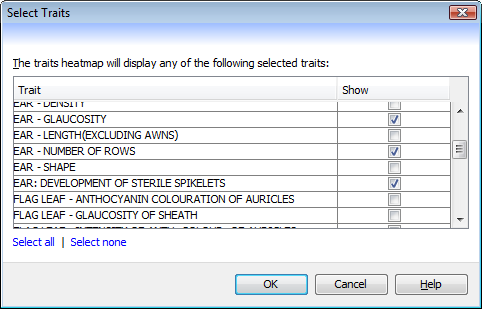
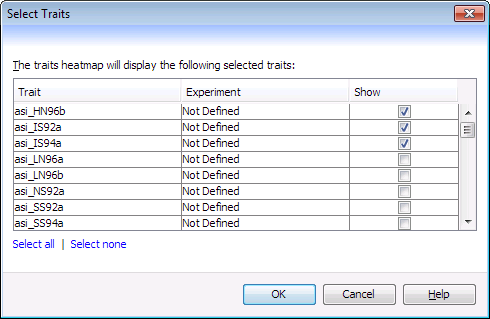
- NEW: Added an experiment column to the table in the SelectTraitsDialog.

Changed region(s): [[0.0, 0.1748, 0.9959, 0.8155], [0.0311, 0.8447, 0.9959, 0.9612], [0.0, 0.0, 1.0, 0.0874]]

diff --git a/src/flapjack/gui/dialog/SelectTraitsPanelNB.java b/src/flapjack/gui/dialog/SelectTraitsPanelNB.java
@@ -46,17 +46,19 @@ class SelectTraitsPanelNB extends javax.swing.JPanel implements ActionListener
 	{
 		String[] columnNames = {
 			RB.getString("gui.dialog.NBSelectTraitsPanel.traitsColumn"),
+			RB.getString("gui.dialog.NBSelectTraitsPanel.experimentColumn"),
 			RB.getString("gui.dialog.NBSelectTraitsPanel.showColumn")
 		};
 
 		ArrayList<Trait> traits = viewSet.getDataSet().getTraits();
 
 		int[] selected = viewSet.getTraits();
-		Object[][] data = new Object[traits.size()][2];
+		Object[][] data = new Object[traits.size()][3];
 
 		for (int i = 0; i < data.length; i++)
 		{
 			data[i][0] = traits.get(i).getName();
+			data[i][1] = traits.get(i).getExperiment();
 
 			// Search the current list of visible traits to see if this trait
 			// is one of them. If it is, enable it in the table
@@ -65,7 +67,7 @@ class SelectTraitsPanelNB extends javax.swing.JPanel implements ActionListener
 				if (selected[j] == i)
 					show = true;
 
-			data[i][1] = show;
+			data[i][2] = show;
 		}
 
 		table.setModel(new DefaultTableModel(data, columnNames)
@@ -76,11 +78,11 @@ class SelectTraitsPanelNB extends javax.swing.JPanel implements ActionListener
 
 			// Column 1 contains the tickboxes, and must be editable
 			public boolean isCellEditable(int row, int col) {
-				return col == 1;
+				return col == 2;
 			}
 		});
 
-		table.getColumnModel().getColumn(1).setPreferredWidth(10);
+		table.getColumnModel().getColumn(2).setPreferredWidth(10);
 	}
 
 	void isOK()
@@ -88,7 +90,7 @@ class SelectTraitsPanelNB extends javax.swing.JPanel implements ActionListener
 		// Generate a boolean array with true/false states for every trait
 		boolean[] array = new boolean[table.getRowCount()];
 		for (int i = 0; i < array.length; i++)
-			array[i] = (Boolean) table.getValueAt(i, 1);
+			array[i] = (Boolean) table.getValueAt(i, 2);
 
 		int active = 0;
 		for (boolean b: array)
@@ -109,13 +111,13 @@ class SelectTraitsPanelNB extends javax.swing.JPanel implements ActionListener
 		if(e.getSource() == selectAllLabel)
 		{
 			for (int i = 0; i < table.getRowCount(); i++)
-				table.setValueAt(true, i, 1);
+				table.setValueAt(true, i, 2);
 		}
 
 		if(e.getSource() == selectNoneLabel)
 		{
 			for (int i = 0; i < table.getRowCount(); i++)
-				table.setValueAt(false, i, 1);
+				table.setValueAt(false, i, 2);
 		}
 	}
 
